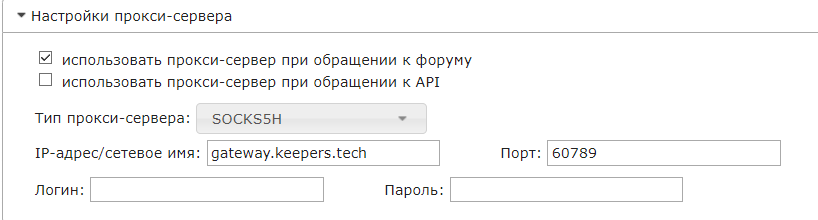
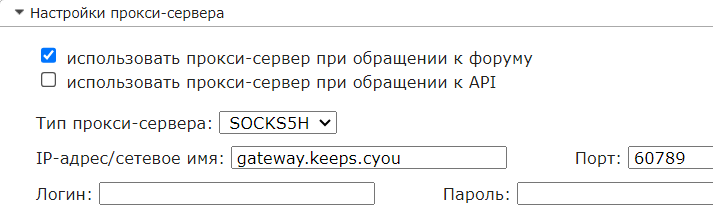
update proxies

diff --git a/content/configuration/proxy-server.md b/content/configuration/proxy-server.md
@@ -13,9 +13,15 @@ weight: 2
 
 > **ВНИМАНИЕ!** Предпочтительным вариантом для обхода блокировки является использование SOCKS5H-прокси.
 
+{{% notice style="note" %}}
+Некоторые провайдеры могут блокировать те или иные прокси время от времени.
+Если ни один из рекомендуемых не заработал, обратитесь к другим хранителям за актуальными прокси
+{{% /notice %}}
+
 Рекомендуемые прокси от хранителей:
-* `gateway.keepers.tech:60789` (SOCKS5H)
-* `gateway.keeps.cyou:2081` (SOCKS5H)
+* `gateway.keeps.cyou:60789` (SOCKS5H)
+* `px1.blockme.site:3128` (HTTP)
+* `px2.blockme.site:3128` (HTTP)
 
 > **ПРИМЕЧАНИЕ.** Как запустить локальный прокси-сервер с подключением к сети Tor см. [Обход блокировки]({{< relref "/blocking-bypass" >}}).
 
